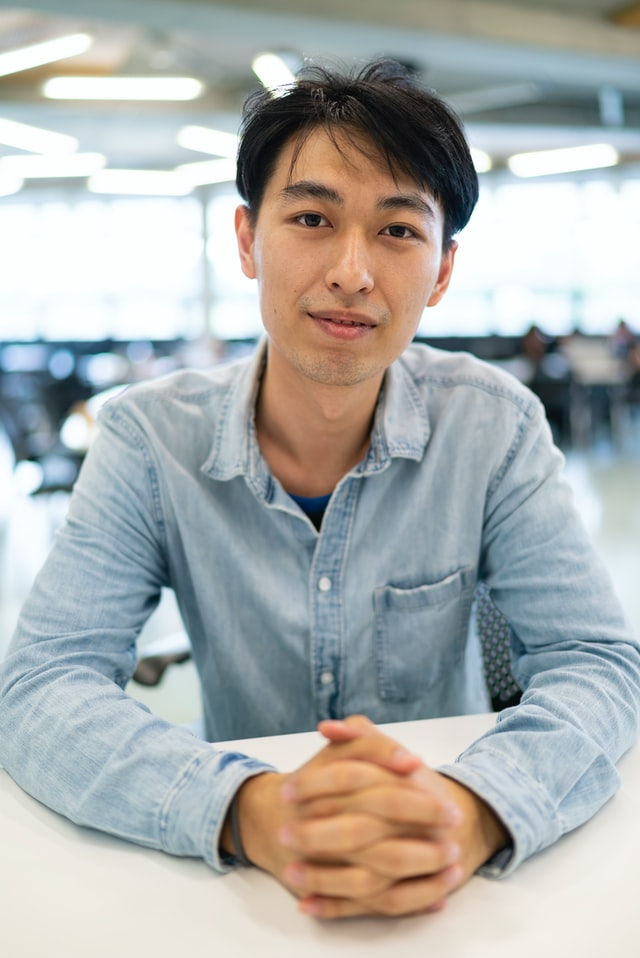
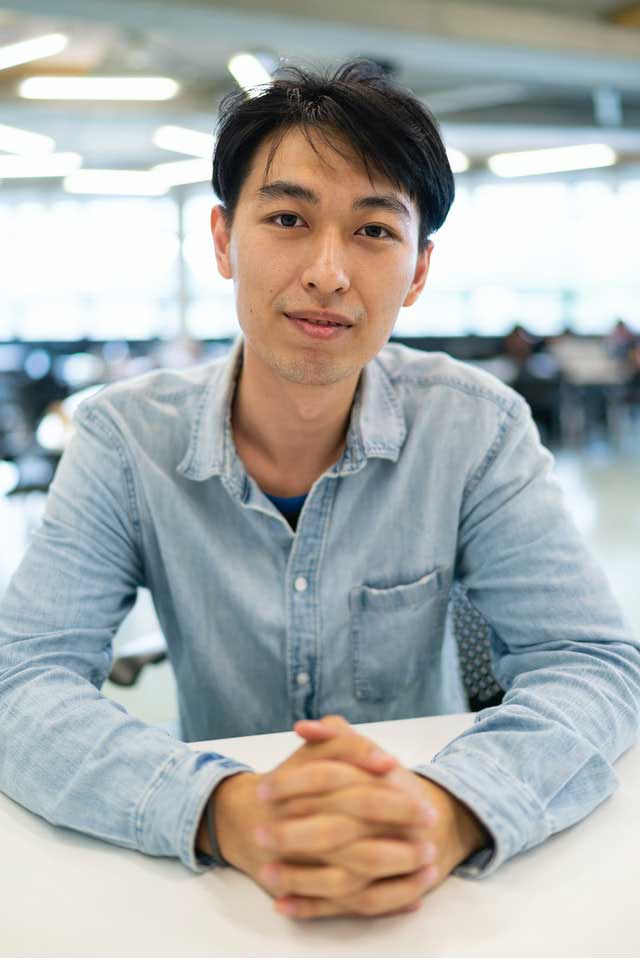
Updated about and team sections.

diff --git a/resources/css/style.css b/resources/css/style.css
@@ -14,6 +14,12 @@ body {
     font-weight: 400;
 }
 
+section {
+    padding-top: 126px;
+    max-width: 1200px;
+    margin: 0 auto;
+}
+
 /* FONTS */
 
 h1 {
@@ -24,7 +30,8 @@ h1 {
 h2 {
     font-size: 27px;
     letter-spacing: 1px;
-    margin-bottom: 9px;
+    margin-bottom: 27px;
+    margin-left: 18px;
     text-transform: uppercase;
 }
 
@@ -33,7 +40,7 @@ h3 {
 }
 
 p {
-    font-size: 13.5px;
+    font-size: 18px;
 }
 
 a {
@@ -129,7 +136,7 @@ header {
         align-items: center;
         flex-direction: column;
         z-index: 20;
-        transition: 1s;
+        transition: .75s;
     }
 
     .navigation ul.active {
@@ -171,6 +178,14 @@ header {
     .menu-button,
     .close-button {
         font-size: 13.5px;
+    }
+
+}
+
+@media only screen and (max-width: 375px) {
+    
+    .light {
+        display: none;
     }
 
 }
@@ -294,24 +309,75 @@ header {
         transform: translateY(-300px);
     }
 
-    .banner-box .banner-description p {
-        font-size: 13.5px;
-    }
+}
+
+/* ABOUT */
+
+.about-container {
+    padding: 9px 18px;
+}
+
+/* TEAM */
+
+.team-container {
+    display: flex;
+    flex-wrap: wrap;
+    padding: 0 9px;
+}
+
+.team-box {
+    display: flex;
+    align-items: flex-end;
+    border: 9px solid #fff;
+    width: 306px;
+    height: 594px;
+}
+
+.team-description {
+    display: flex;
+    background-color: rgba(0, 0, 0, 0.8);
+    color: #fff;
+    width: 100%;
+    height: 15%;
+    flex-direction: column;
+    justify-content: center;
+    align-items: center;
+}
+
+#principal-architect {
+    background-image: url("../images/principal-architect.jpg");
+    background-repeat: no-repeat;
+    background-position: center;
+    background-size: cover;
+    flex-grow: 1;
+}
+
+#project-architect {
+    background-image: url("../images/project-architect-web.jpg");
+    background-repeat: no-repeat;
+    background-position: center;
+    background-size: cover;
+    flex-grow: 1;
+}
+
+#architectural-designer {
+    background-image: url("../images/architectural-designer.jpg");
+    background-repeat: no-repeat;
+    background-position: center;
+    background-size: cover;
+    flex-grow: 1;
+}
+
+/* TEAM - MOBILE */
+
+@media only screen and (min-width: 400px) and (max-width: 900px) {
+
+
 
 }
 
 /* WORKS */
-
-/* #work {
-    padding-top: 100px;
-    max-width: 1200px;
-    margin: 0 auto;
-}
-
-#work h2 {
-    padding-left: 18px;
-}
-
+ /*
 .work-container {
     display: flex;
     flex-wrap: wrap;
@@ -411,92 +477,12 @@ header {
 
 } */
 
-/* TEAM */
-
-/* #team {
-    padding-top: 100px;
-    max-width: 1200px;
-    margin: 0 auto;
-}
-
-#team h2 {
-    padding-left: 18px;
-}
-
-.team-container {
-    display: flex;
-    flex-wrap: wrap;
-    padding: 0 9px;
-}
-
-.team-box {
-    display: flex;
-    border: 9px solid #fff;
-    width: 300px;
-    height: 650px;
-    align-items: flex-end;
-}
-
-.team-description {
-    display: flex;
-    background-color: rgba(65, 65, 65, 0.5);
-    color: #fff;
-    width: 100%;
-    height: 15%;
-    flex-direction: column;
-    justify-content: center;
-    align-items: center;
-}
-
-.team-description p {
-    font-size: 13.5px;
-}
-
-#principal-architect {
-    background-image: url("../images/principal-architect.jpg");
-    background-repeat: no-repeat;
-    background-position: center-top;
-    background-size: cover;
-    flex-grow: 1;
-}
-
-#project-architect {
-    background-image: url("../images/rene-ranisch-f5nYyu7rmkI-unsplash.jpg");
-    background-repeat: no-repeat;
-    background-position: center-top;
-    background-size: cover;
-    flex-grow: 1;
-} */
-
-/* TEAM - MOBILE */
-
-/* @media only screen and (min-width: 635px) and (max-width: 900px) {
-    
-    #principal-architect,
-    #project-architect {
-        background-position: center;
-    }
-
-}
-
-@media only screen and (max-width: 500px) {
-    
-    .team-description h3 {
-        font-size: 18px;
-    }
-
-} */
-
 /* CONTACT */
 
 /* #contact {
     padding: 100px 0 100px 0;
     max-width: 1200px;
     margin: 0 auto;
-}
-
-#contact h2 {
-    padding-left: 18px;
 }
 
 .contact-container {

diff --git a/index.html b/index.html
@@ -11,7 +11,7 @@
 </head>
 <body>
 
-    <!-- HEADER SECTION -->
+    <!-- HEADER -->
 
     <header>
         <nav class="navigation">
@@ -35,7 +35,7 @@
         </div>
     </header>
 
-    <!-- BANNER SECTION -->
+    <!-- BANNER -->
 
     <div id="home" class="banner">
         <div class="banner-box current">
@@ -80,9 +80,44 @@
         </button>
     </div>
 
-    <!-- WORKS SECTION -->
+    <!-- ABOUT -->
     
-    <!-- <div id="work">
+    <section id="about" class="about">
+        <h2>about us</h2>
+        <div class="about-container">
+            <p>Axis Architecture is an Austin-based design firm with a focus in architecture and interior design. We are a nationally award-winning practice that works closely with our clients to create unique user experiences and timeless designs. Projects include but are not limited to adaptive reuse projects, commercial, hospitality, mixed-use developments, multifamily housing, and retail design. Our work takes us across the United States and internationally in various countries.</p>
+        </div>
+    </section>
+
+    <!-- TEAM -->
+    
+    <section id="team" class="team">
+        <h2>meet our team</h2>
+        <div class="team-container">
+            <div class="team-box" id="principal-architect">
+                <div class="team-description">
+                    <h3>Alexander Axis</h3>
+                    <p>Founder and Principal Architect</p>
+                </div>
+            </div>
+            <div class="team-box" id="project-architect">
+                <div class="team-description">
+                    <h3>Olivia Williams</h3>
+                    <p>Project Architect</p>
+                </div>
+            </div>
+            <div class="team-box" id="architectural-designer">
+                <div class="team-description">
+                    <h3>Yoshiaki Yamamoto</h3>
+                    <p>Architectural Designer</p>
+                </div>
+            </div>
+        </div>
+    </section>
+
+    <!-- WORKS -->
+    
+    <!-- <section id="work">
         <h2>selected works</h2>
         <div class="work-container">
             <div class="work-box" id="club-2100">
@@ -122,29 +157,9 @@
                 </div>
             </div>
         </div>
-    </div> -->
+    </section> -->
 
-    <!-- TEAM SECTION -->
-    
-    <!-- <div id="team">
-        <h2>meet our team</h2>
-        <div class="team-container">
-            <div class="team-box" id="principal-architect">
-                <div class="team-description">
-                    <h3>Andrew Axis, AIA, LEED</h3>
-                    <p>Founder and Principal Architect</p>
-                </div>
-            </div>
-            <div class="team-box" id="project-architect">
-                <div class="team-description">
-                    <h3>Fujita Yamamoto, AIA</h3>
-                    <p>Project Architect</p>
-                </div>
-            </div>
-        </div>
-    </div> -->
-
-    <!-- CONTACT SECTION -->
+    <!-- CONTACT -->
     
     <!-- <div id="contact">
         <h2>contact us</h2>
@@ -183,9 +198,8 @@
             </div>
         </div>
     </div> -->
-    
 
-    <!-- FOOTER SECTION -->
+    <!-- FOOTER -->
 
     <!-- <footer>
         <p>&copy;2021 Jackie Yu. Project from Codecademy. Photos from Unsplash. Icons from Font Awesome. All rights reserved.</p>
